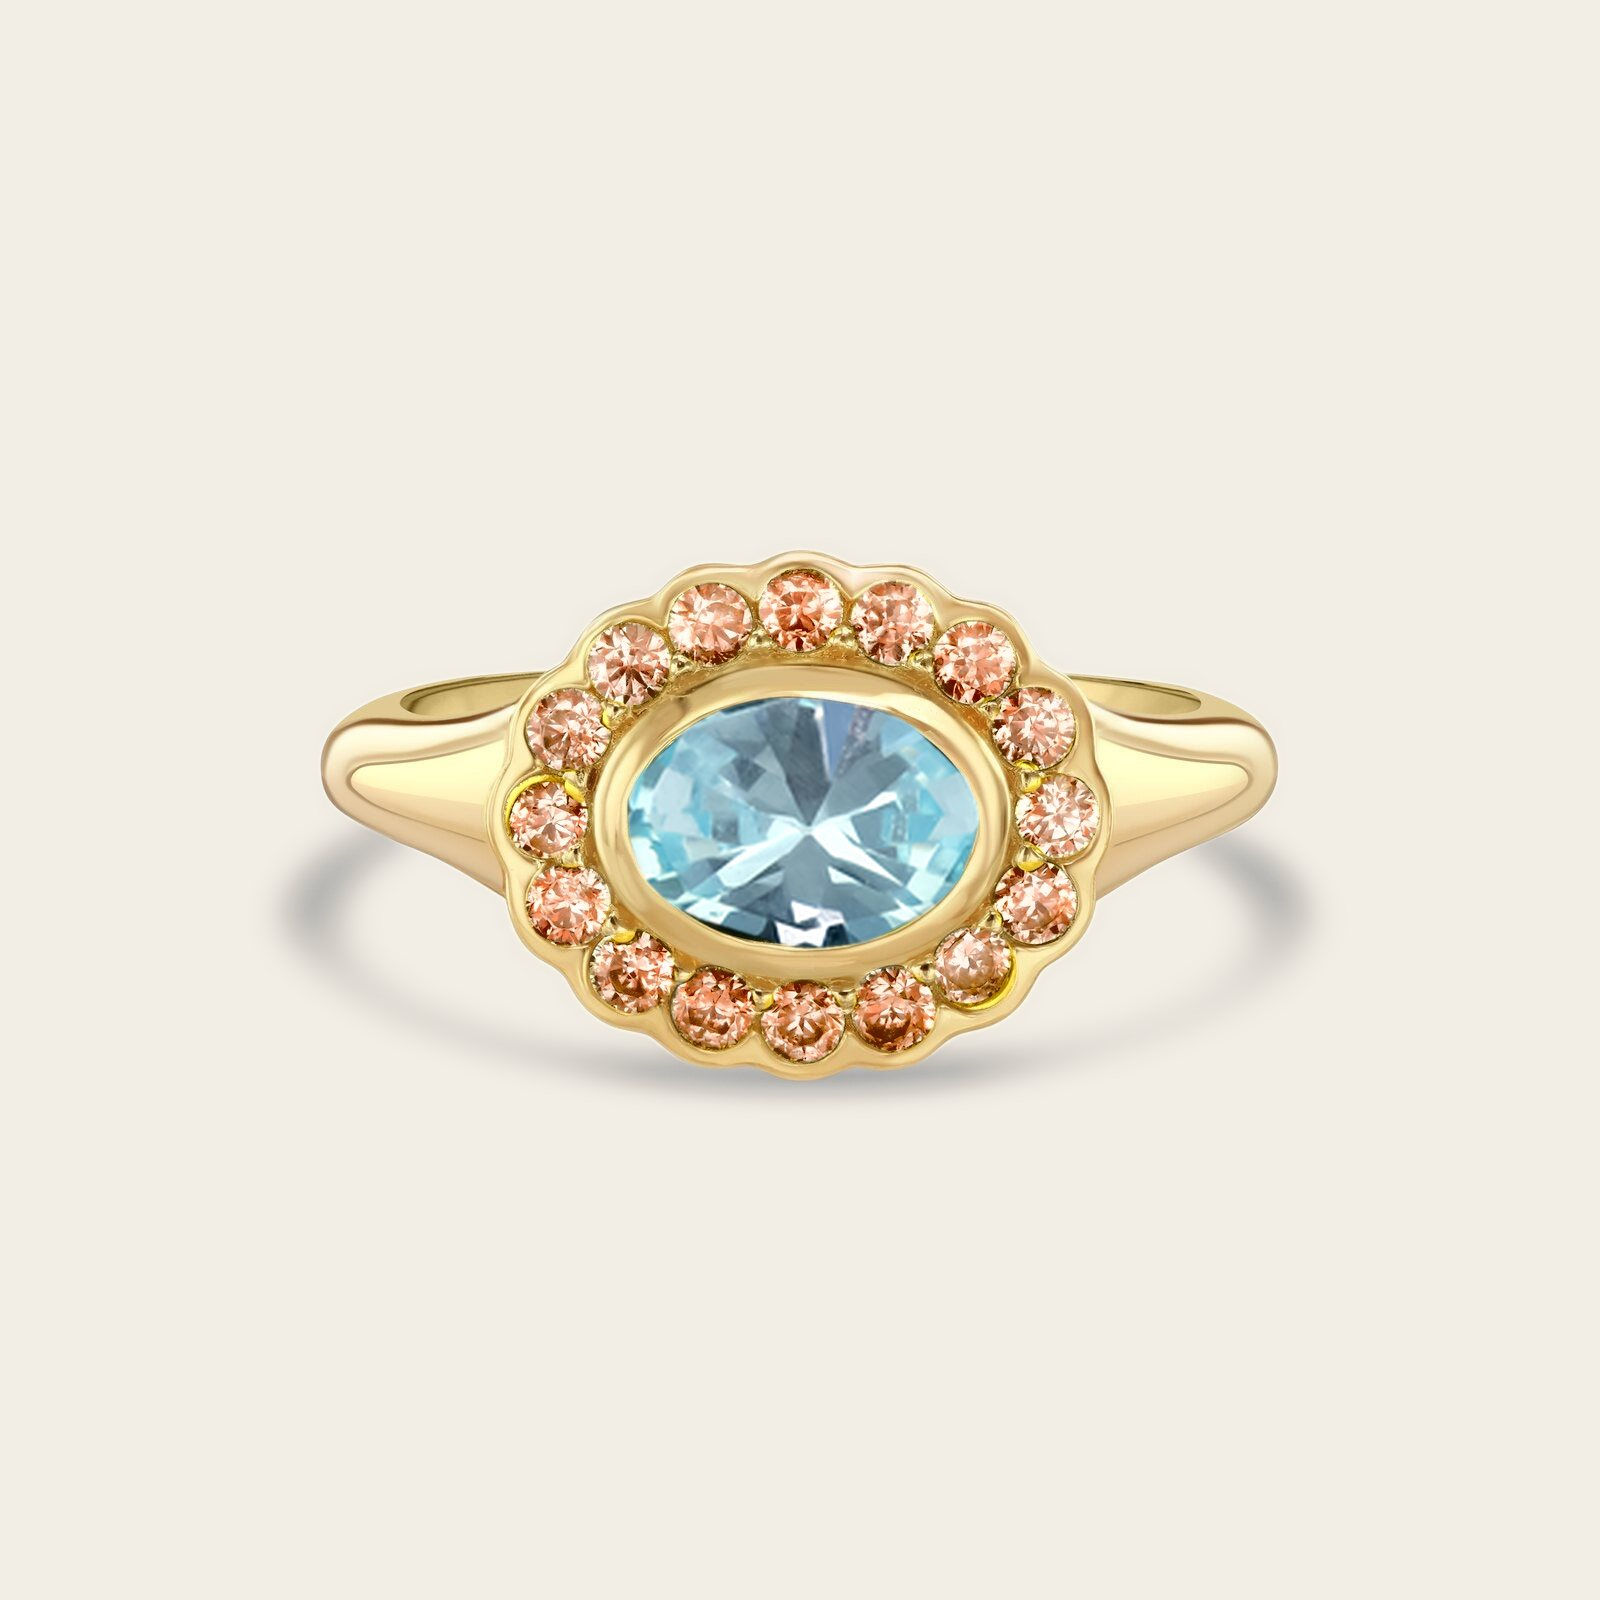
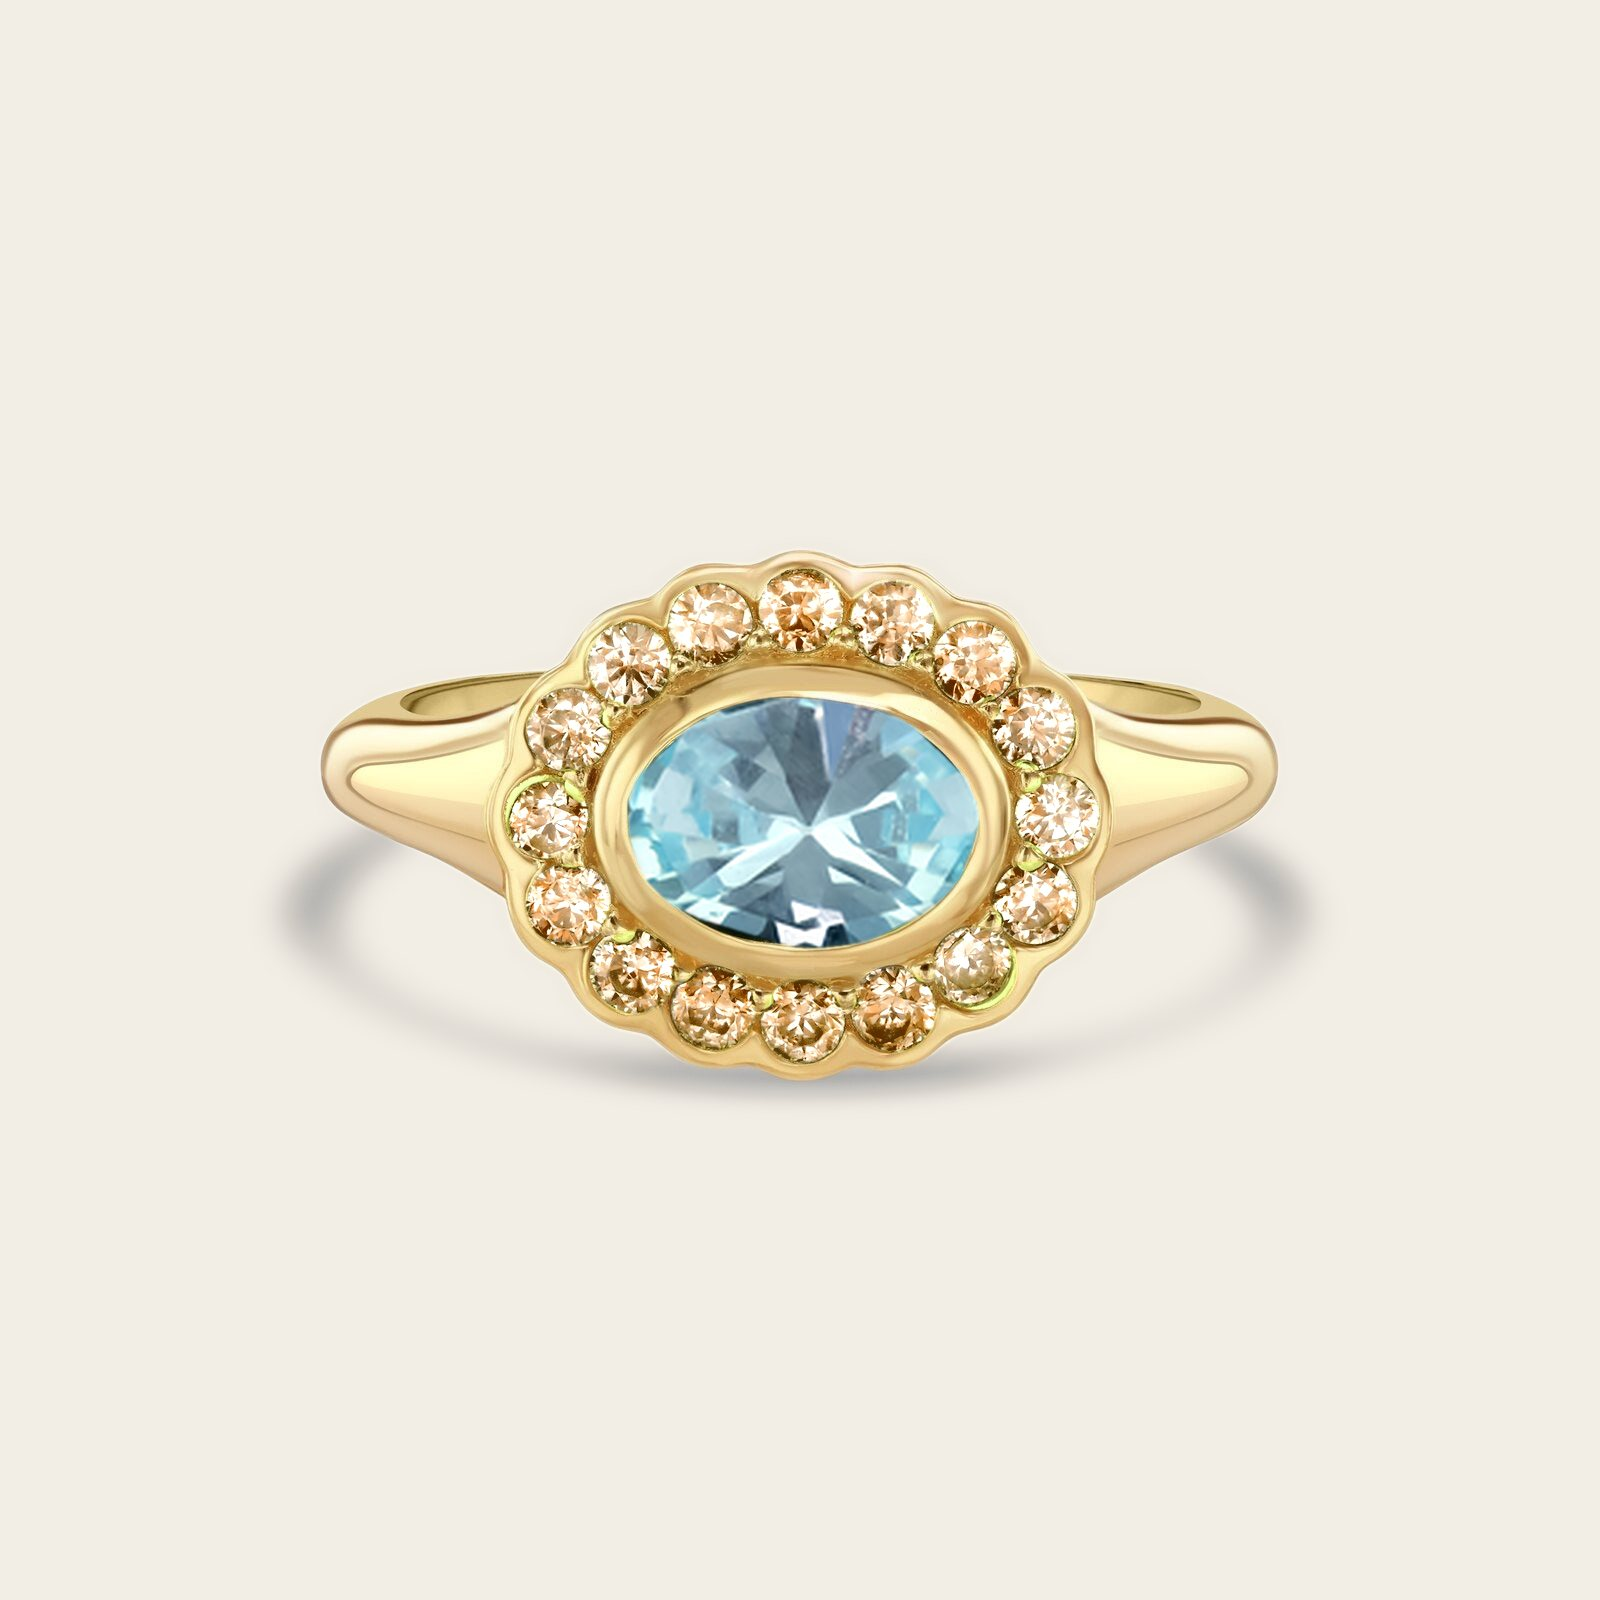
Co-Lab stone preview - client's updated November halo colour

Changed region(s): [[0.3125, 0.3438, 0.6875, 0.6562]]

diff --git a/docs/colab/stone-preview/HANDOVER.md b/docs/colab/stone-preview/HANDOVER.md
@@ -49,7 +49,7 @@ silver. `pipeline/gold_to_silver.py` does that inside `rebuild.py`:
   neutral tint.
 - **Checking:** `check_no_gold.py <files>` counts gold-hued pixels outside stones. It should
   be near zero, apart from champagne and apple green, whose own colour sits near gold.
-- **Current settings:** the client's settings are in `client_colours_2026-09-26.json`, which
+- **Current settings:** the client's settings are in `client_colours_2026-09-27.json`, which
   includes her latest October and March halo edits.
 
 The silver packshot (`packshots/silver.jpg`) is no longer used for images, only for the
@@ -60,8 +60,8 @@ silver metal tone.
 ```bash
 cd docs/colab/stone-preview/pipeline
 python3 -m venv .venv && .venv/bin/pip install -r requirements.txt
-.venv/bin/python rebuild.py client_colours_2026-09-26.json          # all 288 site images, client colours
-.venv/bin/python rebuild.py client_colours_2026-09-26.json --tuner  # also refresh the tuner's images
+.venv/bin/python rebuild.py client_colours_2026-09-27.json          # all 288 site images, client colours
+.venv/bin/python rebuild.py client_colours_2026-09-27.json --tuner  # also refresh the tuner's images
 ```
 
 A clean rebuild is verified to reproduce the committed images exactly, with zero pixel
